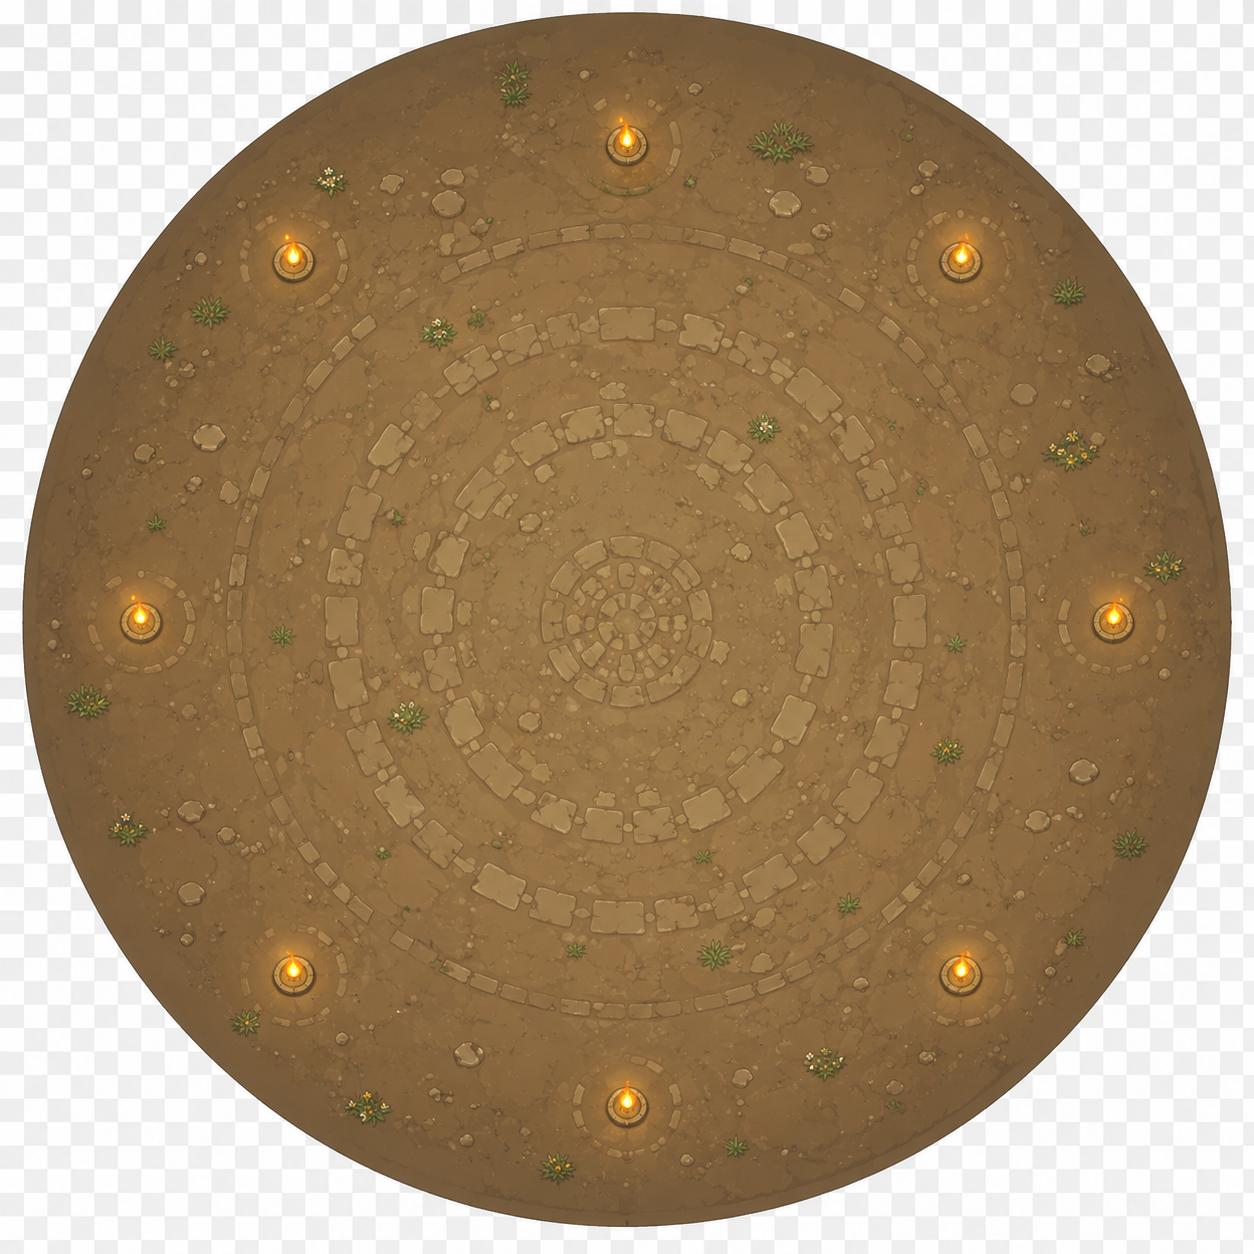
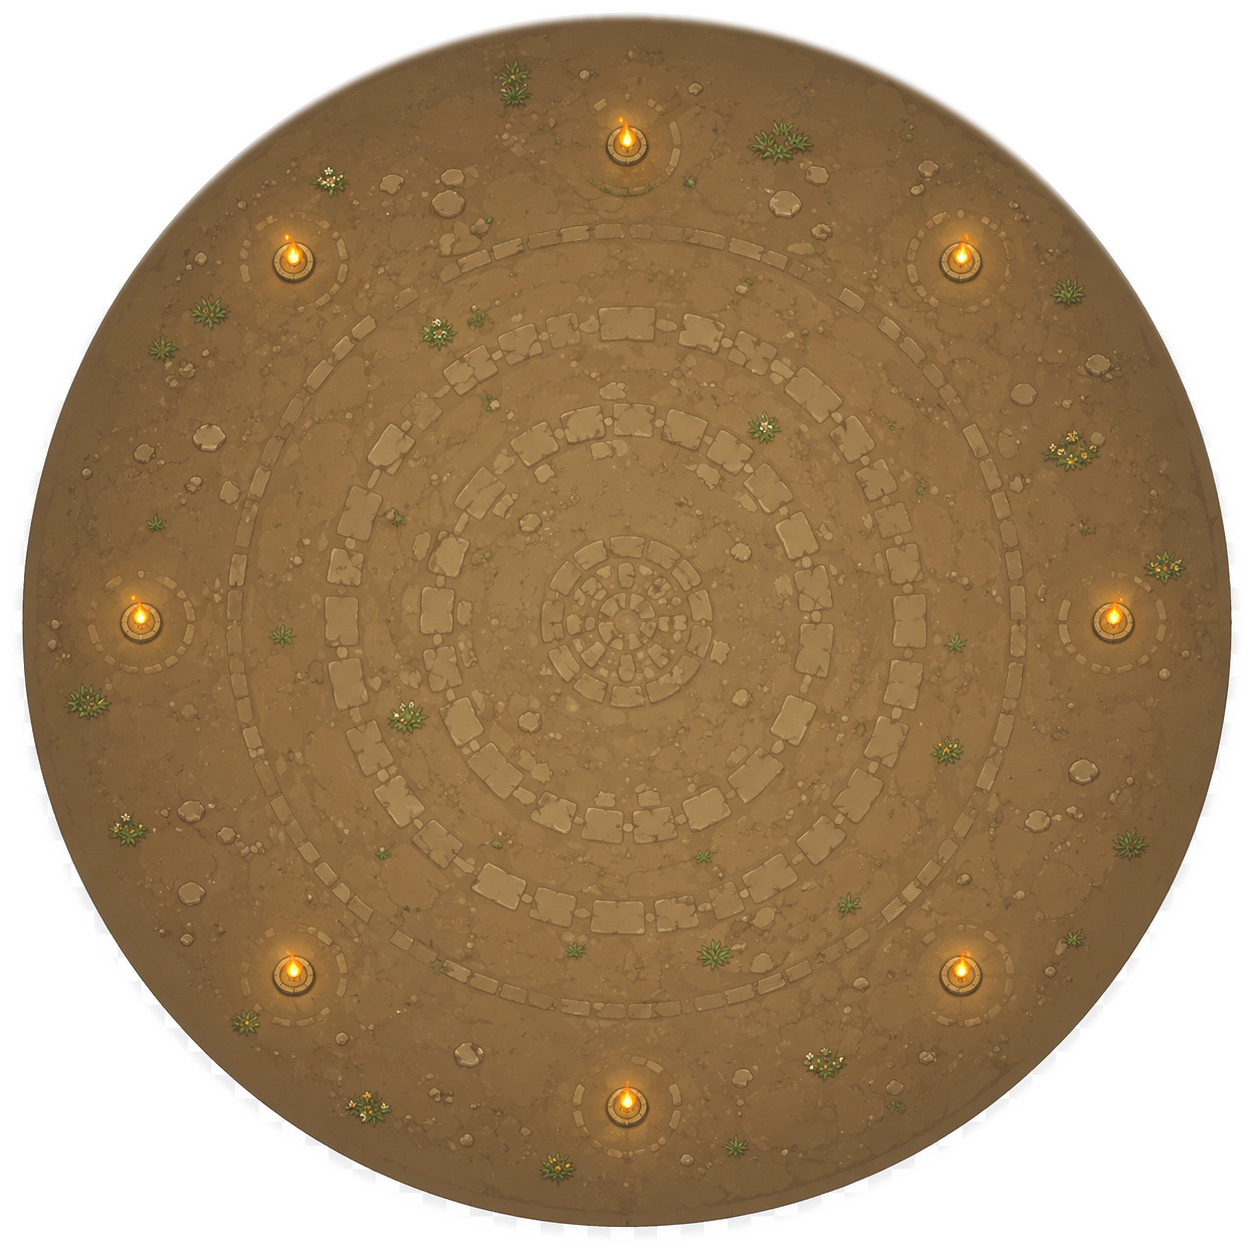
Fix transparent fortress courtyard background

diff --git a/index.html b/index.html
@@ -3,7 +3,7 @@
 <head>
 <meta charset="UTF-8">
 <meta name="viewport" content="width=device-width,initial-scale=1,maximum-scale=1,user-scalable=no">
-<title>Fortress Commander v1.15.23 – Festungshof-Grafik</title>
+<title>Fortress Commander v1.15.24 – Festungshof-Freistellung</title>
 <link rel="stylesheet" href="css/style.css">
 </head>
 <body>
@@ -20,7 +20,7 @@
  <div id="titleArt" role="img" aria-label="Fortress Commander Titelbild">
   <button id="instructionsHotspot" class="menuHotspot" aria-label="Anleitung öffnen">Anleitung</button>
   <button id="playHotspot" class="menuHotspot" aria-label="Spiel starten">Spiel starten</button>
-  <div id="gameVersionBadge">v1.15.23</div>
+  <div id="gameVersionBadge">v1.15.24</div>
   <div id="developmentNotice"><strong>🏗 Festungsumbau in Entwicklung</strong><span>Mauertürme stehen jetzt bereits auf Holzpalisaden. Der mittlere Ring bietet acht, der äußere Ring zwölf feste Turmplätze.</span></div>
  </div>
 </div>
@@ -219,7 +219,7 @@
   </div>
   <div id="workshopTabs" class="workshopTabs"></div>
   <div id="techTree" class="techTree"></div>
-  <div class="workshopFoot">v1.15.23 · Der braune Festungshof nutzt jetzt ein neues comicartiges Bodendesign.</div>
+  <div class="workshopFoot">v1.15.24 · Der runde Festungshof ist jetzt sauber freigestellt und besitzt keinen sichtbaren Karohintergrund mehr.</div>
  </section>
 </div>
 

diff --git a/js/main.js b/js/main.js
@@ -139,8 +139,8 @@ import {
 
 (()=>{
 "use strict";
-const GAME_VERSION="1.15.23";
-const GAME_RELEASE_NAME="Festungshof-Grafik";
+const GAME_VERSION="1.15.24";
+const GAME_RELEASE_NAME="Festungshof-Freistellung";
 const AUTOSAVE_INTERVAL_MS=60_000;
 const discoveredEnemies=loadDiscoveredEnemies();
 function discoverEnemy(type){

diff --git a/CHANGELOG.md b/CHANGELOG.md
@@ -1,5 +1,10 @@
 # Fortress Commander – Changelog
 
+## v1.15.24 – Festungshof-Freistellung
+- der sichtbare Karohintergrund außerhalb des runden Festungshofs wurde entfernt
+- `assets/environment/fortress-yard.webp` besitzt jetzt echte Transparenz außerhalb der Arena
+- Spielmechanik und Positionierung des Hofes bleiben unverändert
+
 ## v1.15.23 – Festungshof-Grafik
 - der braune Festungshof verwendet jetzt ein neues comicartiges Bodendesign
 - Rendering lädt das neue Asset `assets/environment/fortress-yard.webp` direkt aus dem Asset-Ordner